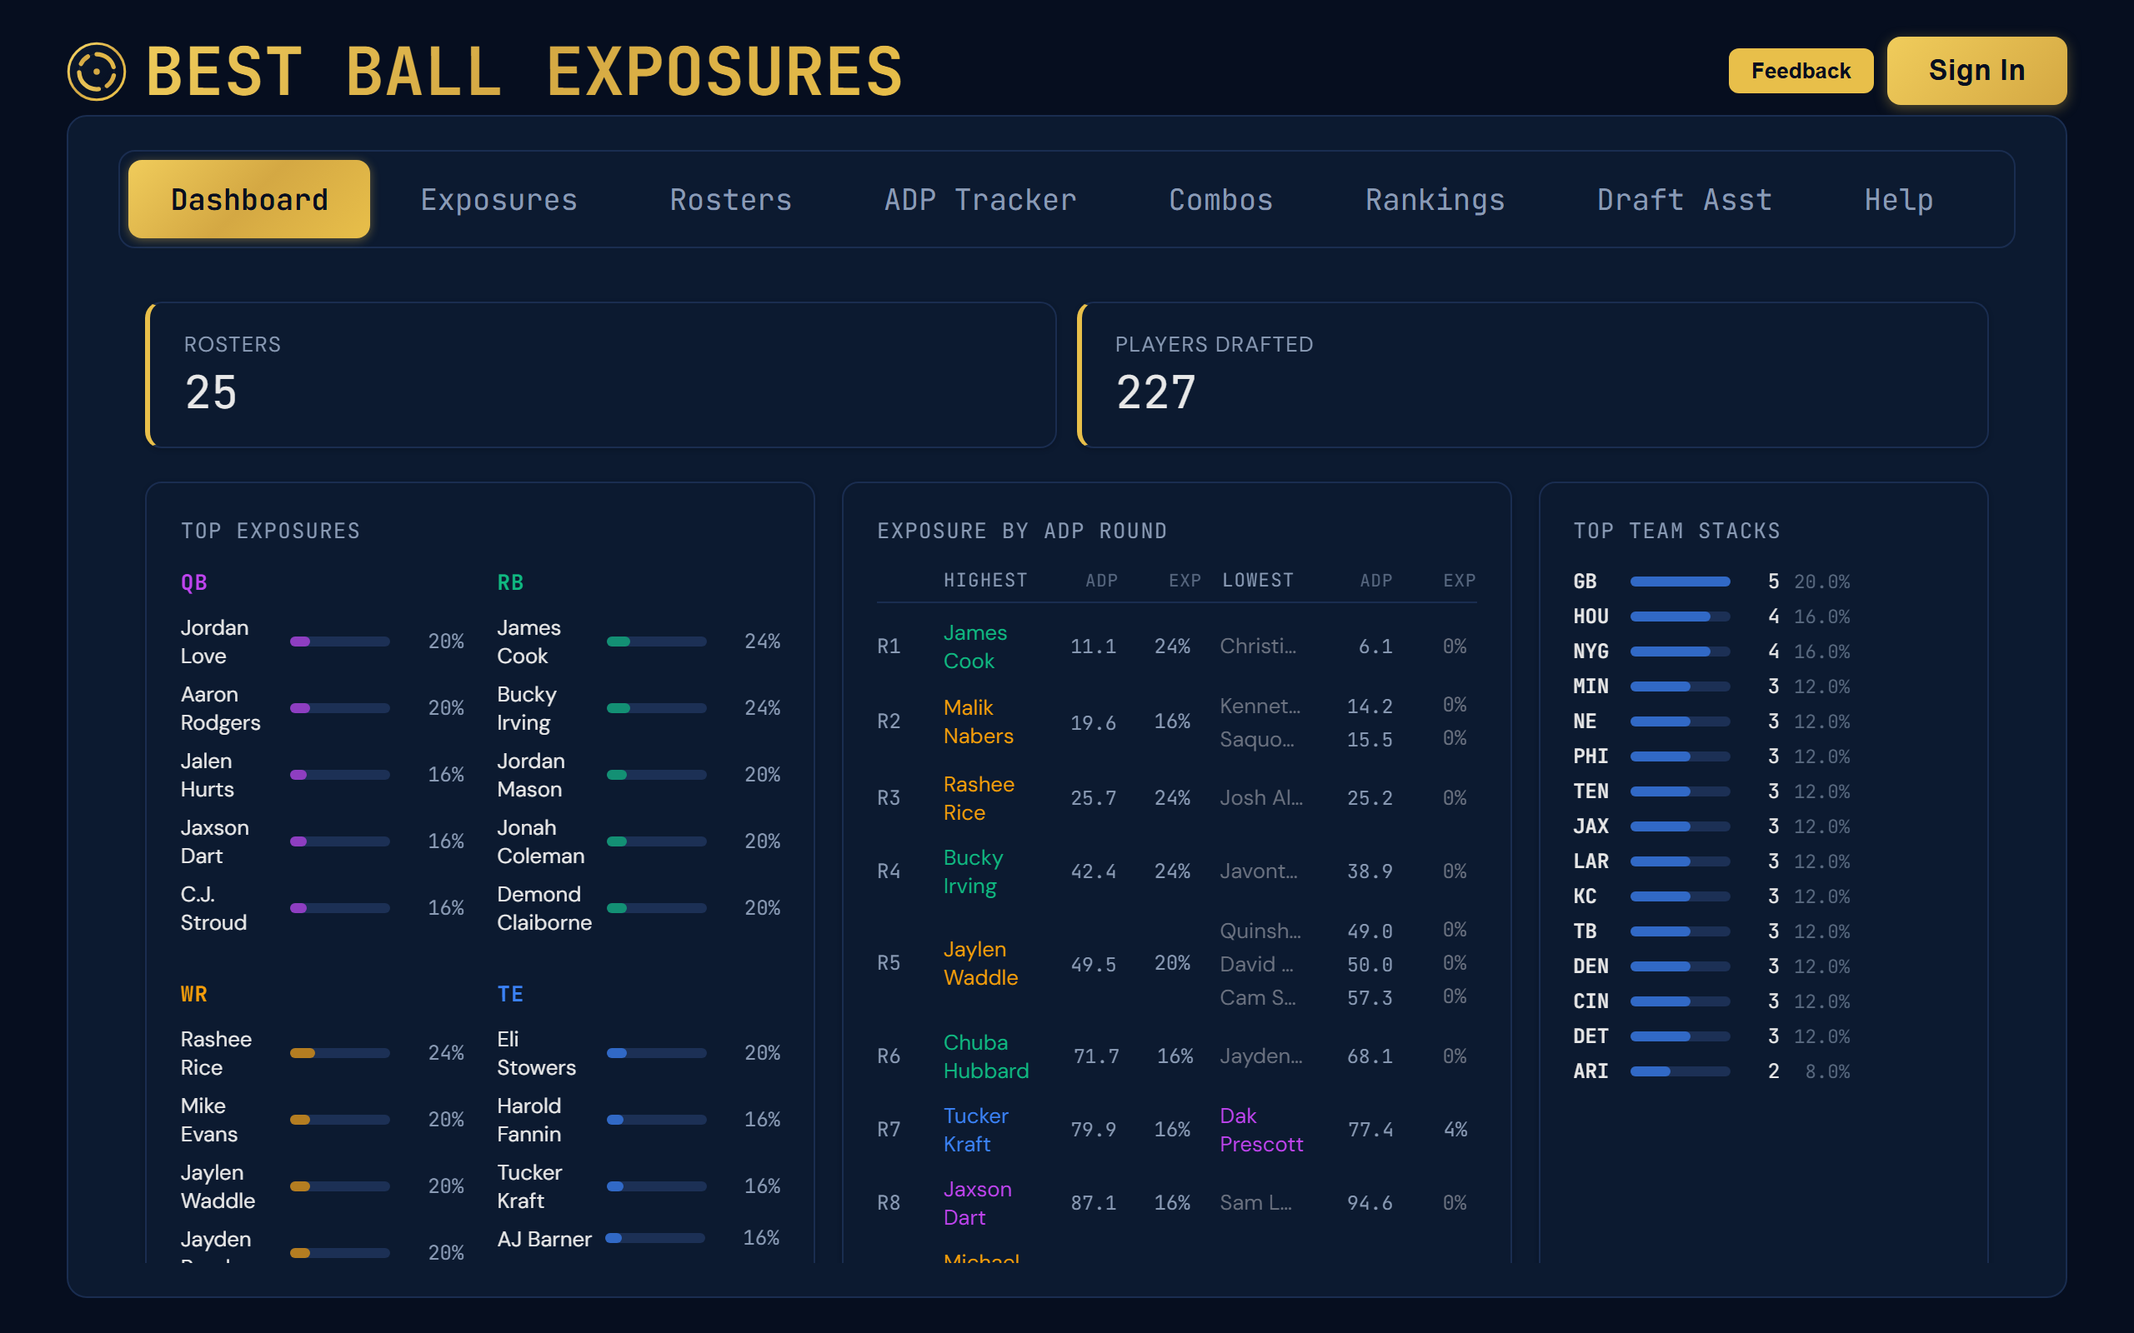
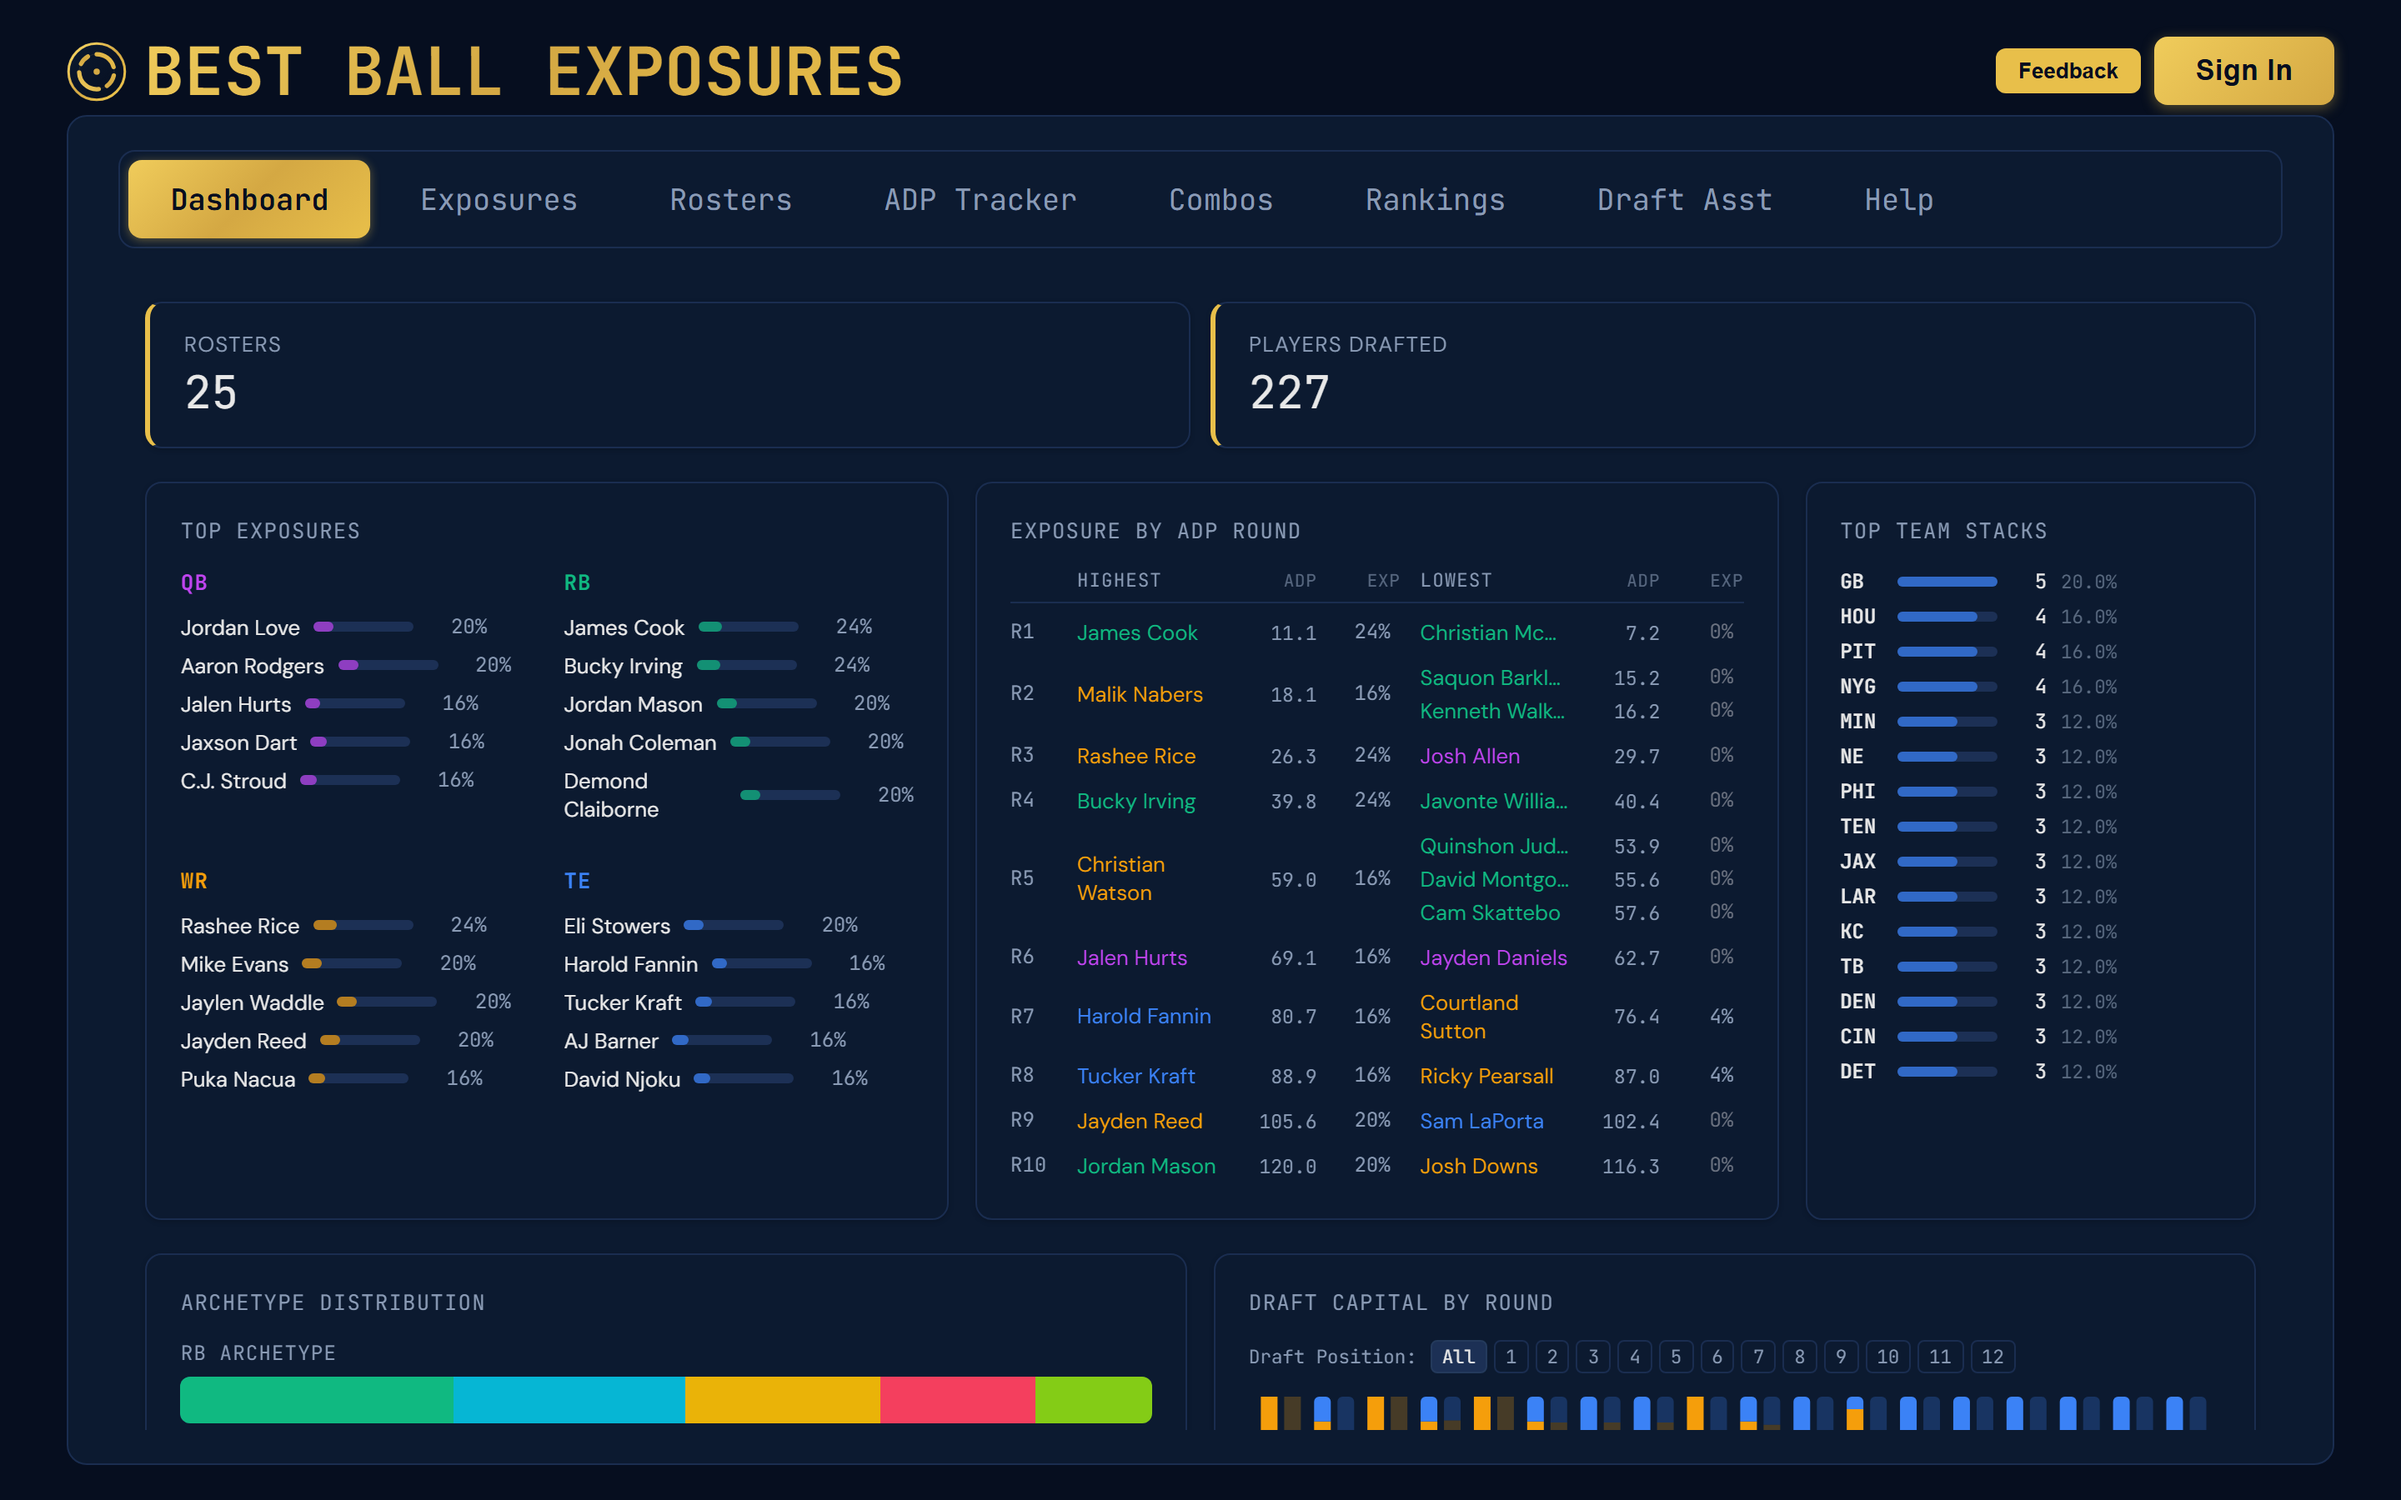
refinement

diff --git a/best-ball-manager/src/components/Dashboard.jsx b/best-ball-manager/src/components/Dashboard.jsx
@@ -1,5 +1,5 @@
 import React, { useMemo, useState } from 'react';
-import { ResponsiveContainer, BarChart, Bar, XAxis, Tooltip, Legend } from 'recharts';
+import { ResponsiveContainer, BarChart, Bar, XAxis, YAxis, Tooltip, Legend } from 'recharts';
 import { BarChart3, Users, TrendingUp, ListOrdered, Crosshair, FolderSync } from 'lucide-react';
 import EmptyState from './EmptyState';
 import { analyzePortfolioTree, ARCHETYPE_METADATA } from '../utils/rosterArchetypes';
@@ -37,6 +37,7 @@ const HELP_ANNOTATIONS = [
 export default function Dashboard({ rosterData = [], masterPlayers = [], adpSnapshots = [], onNavigate, onNavigateToRosters = null, helpOpen = false, onHelpToggle }) {
   const { isMobile } = useMediaQuery();
   const [hoveredSeg, setHoveredSeg] = useState(null);
+  const [selectedPositions, setSelectedPositions] = useState(null); // null = All
 
   // ── Headline Metrics ──
   const metrics = useMemo(() => {
@@ -181,10 +182,43 @@ export default function Dashboard({ rosterData = [], masterPlayers = [], adpSnap
       .slice(0, 15);
   }, [rosterData]);
 
+  // ── Draft Position per Entry (min pick = round-1 slot) ──
+  const draftPositionByEntry = useMemo(() => {
+    const map = {};
+    rosterData.forEach(p => {
+      const pick = Number(p.pick);
+      if (!pick) return;
+      if (map[p.entry_id] === undefined || pick < map[p.entry_id]) {
+        map[p.entry_id] = pick;
+      }
+    });
+    return map;
+  }, [rosterData]);
+
+  function togglePosition(pos) {
+    if (pos === 'all') { setSelectedPositions(null); return; }
+    setSelectedPositions(prev => {
+      // If All is active, isolate to just this position
+      if (prev === null) return new Set([pos]);
+      const next = new Set(prev);
+      if (next.has(pos)) {
+        next.delete(pos);
+        if (next.size === 0 || next.size === 12) return null;
+      } else {
+        next.add(pos);
+        if (next.size === 12) return null;
+      }
+      return next;
+    });
+  }
+
   // ── Draft Capital by Round (user vs market) ──
   const draftCapitalShape = useMemo(() => {
+    const filtered = selectedPositions
+      ? rosterData.filter(p => selectedPositions.has(draftPositionByEntry[p.entry_id]))
+      : rosterData;
     const roundCounts = {};
-    rosterData.forEach(p => {
+    filtered.forEach(p => {
       const r = p.round ? Number(p.round) : Math.ceil(Number(p.pick) / 12);
       if (r >= 1 && r <= 18) {
         if (!roundCounts[r]) roundCounts[r] = { QB: 0, RB: 0, WR: 0, TE: 0 };
@@ -226,7 +260,7 @@ export default function Dashboard({ rosterData = [], masterPlayers = [], adpSnap
         mQB: mc.QB, mRB: mc.RB, mWR: mc.WR, mTE: mc.TE,
       };
     });
-  }, [rosterData, masterPlayers]);
+  }, [rosterData, masterPlayers, selectedPositions, draftPositionByEntry]);
 
   // ── Drill-down stat lines ──
   const drillStats = useMemo(() => {
@@ -457,8 +491,25 @@ export default function Dashboard({ rosterData = [], masterPlayers = [], adpSnap
         {/* Draft Capital by Round — You vs Market */}
         <div className={styles.shapeCard} data-help-id="draft-capital">
           <div className={styles.sectionTitle}>Draft Capital by Round</div>
+          <div className={styles.draftPosFilters}>
+            <span className={styles.draftPosLabel}>Draft Position:</span>
+            {['All',1,2,3,4,5,6,7,8,9,10,11,12].map(p => {
+              const isAll = p === 'All';
+              const active = isAll ? !selectedPositions : selectedPositions?.has(p);
+              return (
+                <button
+                  key={p}
+                  className={`${styles.draftPosBtn}${active ? ` ${styles.draftPosBtnActive}` : ''}`}
+                  onClick={() => togglePosition(isAll ? 'all' : p)}
+                >
+                  {p}
+                </button>
+              );
+            })}
+          </div>
           <ResponsiveContainer width="100%" height={isMobile ? 180 : 220}>
             <BarChart data={draftCapitalShape} margin={{ top: 4, right: 4, bottom: 0, left: 4 }}>
+              <YAxis domain={[0, 100]} hide />
               <XAxis
                 dataKey="round"
                 tick={{ fill: 'var(--text-secondary)', fontSize: 11 }}

diff --git a/best-ball-manager/src/components/Dashboard.module.css b/best-ball-manager/src/components/Dashboard.module.css
@@ -354,6 +354,46 @@
   text-align: right;
 }
 
+/* ── Draft Position Filter ── */
+.draftPosFilters {
+  display: flex;
+  flex-wrap: wrap;
+  align-items: center;
+  gap: 4px;
+  margin-bottom: 10px;
+}
+
+.draftPosLabel {
+  font-family: var(--font-mono);
+  font-size: 0.7rem;
+  color: var(--text-secondary);
+  margin-right: 4px;
+  white-space: nowrap;
+}
+
+.draftPosBtn {
+  font-family: var(--font-mono);
+  font-size: 0.7rem;
+  padding: 2px 6px;
+  border-radius: 4px;
+  border: 1px solid var(--border-subtle);
+  background: transparent;
+  color: var(--text-secondary);
+  cursor: pointer;
+  transition: background 0.15s, color 0.15s, border-color 0.15s;
+}
+
+.draftPosBtn:hover {
+  border-color: var(--border-default);
+  color: var(--text-primary);
+}
+
+.draftPosBtnActive {
+  background: var(--surface-3);
+  border-color: var(--border-default);
+  color: var(--text-primary);
+}
+
 /* ── Capital Legend ── */
 .capitalLegend {
   display: flex;

diff --git a/best-ball-manager/src/components/ComboAnalysis.jsx b/best-ball-manager/src/components/ComboAnalysis.jsx
@@ -445,7 +445,7 @@ export default function ComboAnalysis({ rosterData = [], onNavigateToRosters = n
                   );
                   return (
                     <tr>
-                      <SortHeader label="QB" colKey="name" width={220} helpId="qb-col" />
+                      <SortHeader label="QB" colKey="name" width={440} helpId="qb-col" />
                       <th data-help-id="diversity-col" style={{ padding: '12px 20px', textAlign: 'left' }}>STACK DIVERSITY</th>
                       <SortHeader label="STACK %" colKey="stackPct" align="center" width={80} helpId="stack-pct-col" />
                       <SortHeader label="DRAFTS" colKey="totalDrafts" align="center" width={80} />

diff --git a/best-ball-manager/src/components/LandingPage.jsx b/best-ball-manager/src/components/LandingPage.jsx
@@ -48,14 +48,14 @@ const FEATURES = [
     title: 'Draft Overlay',
     desc: 'Live exposure and combo analysis seamlessly integrated into your draft screen. No second window, no alt-tabbing.',
     unique: false,
-    screenshot: '/screenshots/draft-assistant.png',
+    screenshot: '/screenshots/draft-overlay.png',
   },
   {
     icon: Globe,
     title: 'Multi-Platform Support',
     desc: 'Sync from Underdog and DraftKings. See your whole portfolio, not half of it.',
     unique: false,
-    screenshot: '/screenshots/exposures.png',
+    screenshot: '/screenshots/multi-platform.png',
   },
   {
     icon: Network,

diff --git a/best-ball-manager/scripts/capture-screenshots.js b/best-ball-manager/scripts/capture-screenshots.js
@@ -19,7 +19,7 @@ const __dirname = path.dirname(fileURLToPath(import.meta.url));
 const OUTPUT_DIR = path.resolve(__dirname, '../public/screenshots');
 const BASE_URL = 'http://localhost:5173?demo=true';
 
-const VIEWPORT = { width: 1280, height: 800 };
+const VIEWPORT = { width: 1440, height: 900 };
 const DEVICE_SCALE = 2;
 
 async function waitForApp(page) {

diff --git a/Docs/plans/TASK-184.md b/Docs/plans/TASK-184.md
@@ -1,0 +1,161 @@
+# TASK-184: Draft Capital by Round — draft position filter buttons
+
+**Status:** Pending Approval
+**Priority:** P2
+
+---
+
+## Objective
+
+Add toggle buttons ("All", "1"–"12") above the Draft Capital by Round bar chart that filter by draft position (the user's seat on the draft board). Selecting positions shows only rosters drafted from those slots; the bar chart re-renders dynamically. Default shows all positions.
+
+## Verification Criteria
+
+1. A labeled row of 13 buttons ("All" + positions 1–12) renders above the chart inside `shapeCard`.
+2. Default state: "All" active; chart shows capital aggregated across all rosters.
+3. Clicking a position number deactivates "All" and toggles that position on/off.
+4. The chart updates immediately to reflect only entries matching selected positions.
+5. Clicking "All" resets to all positions.
+6. Active button is visually distinct from inactive (background or border highlight).
+7. Label "Draft Position:" precedes the buttons to make the control self-explanatory.
+8. Build passes with no errors.
+
+## Verification Approach
+
+1. `npm run build` from `best-ball-manager/` — no errors.
+2. Developer visual check in dev server: confirm buttons render, toggling updates the chart, "All" resets.
+
+## Files to Change
+
+| File | Action | Description |
+|------|--------|-------------|
+| `best-ball-manager/src/components/Dashboard.jsx` | Modify | Derive draft position per entry; add `selectedPositions` state; filter `rosterData` before aggregation; render filter button row |
+| `best-ball-manager/src/components/Dashboard.module.css` | Modify | Styles for `.draftPosFilters`, `.draftPosBtn`, `.draftPosBtnActive` |
+
+## Implementation Approach
+
+### Derive draft position per entry
+
+Draft position = the minimum `pick` value across all rows sharing an `entry_id`. In a 12-team snake draft, round-1 picks are 1–12, so the first pick of any entry equals their draft slot.
+
+```js
+const draftPositionByEntry = useMemo(() => {
+  const map = {};
+  rosterData.forEach(p => {
+    const pick = Number(p.pick);
+    if (!pick) return;
+    if (map[p.entry_id] === undefined || pick < map[p.entry_id]) {
+      map[p.entry_id] = pick;
+    }
+  });
+  return map; // entry_id -> draft slot (1–12)
+}, [rosterData]);
+```
+
+### State
+
+```js
+const [selectedPositions, setSelectedPositions] = useState(null); // null = All
+```
+
+### Toggle handler
+
+```js
+function togglePosition(pos) {
+  if (pos === 'all') { setSelectedPositions(null); return; }
+  setSelectedPositions(prev => {
+    const all12 = new Set([1,2,3,4,5,6,7,8,9,10,11,12]);
+    const next = new Set(prev ?? all12);
+    next.has(pos) ? next.delete(pos) : next.add(pos);
+    if (next.size === 12) return null;
+    return next;
+  });
+}
+```
+
+### Filter roster rows for `draftCapitalShape`
+
+In the existing `draftCapitalShape` useMemo, filter `rosterData` before the aggregation loop:
+
+```js
+const filtered = selectedPositions
+  ? rosterData.filter(p => selectedPositions.has(draftPositionByEntry[p.entry_id]))
+  : rosterData;
+// then use `filtered` instead of `rosterData` in the forEach loop
+```
+
+Add `selectedPositions` and `draftPositionByEntry` to the dependency array.
+
+### Render — button row
+
+Insert directly below `<div className={styles.sectionTitle}>Draft Capital by Round</div>`:
+
+```jsx
+<div className={styles.draftPosFilters}>
+  <span className={styles.draftPosLabel}>Draft Position:</span>
+  {['All',1,2,3,4,5,6,7,8,9,10,11,12].map(p => {
+    const isAll = p === 'All';
+    const active = isAll ? !selectedPositions : selectedPositions?.has(p);
+    return (
+      <button
+        key={p}
+        className={`${styles.draftPosBtn}${active ? ` ${styles.draftPosBtnActive}` : ''}`}
+        onClick={() => togglePosition(isAll ? 'all' : p)}
+      >
+        {p}
+      </button>
+    );
+  })}
+</div>
+```
+
+### CSS
+
+```css
+.draftPosFilters {
+  display: flex;
+  flex-wrap: wrap;
+  align-items: center;
+  gap: 4px;
+  margin-bottom: 10px;
+}
+
+.draftPosLabel {
+  font-family: var(--font-mono);
+  font-size: 0.7rem;
+  color: var(--text-secondary);
+  margin-right: 4px;
+  white-space: nowrap;
+}
+
+.draftPosBtn {
+  font-family: var(--font-mono);
+  font-size: 0.7rem;
+  padding: 2px 6px;
+  border-radius: 4px;
+  border: 1px solid var(--border-subtle);
+  background: transparent;
+  color: var(--text-secondary);
+  cursor: pointer;
+  transition: background 0.15s, color 0.15s, border-color 0.15s;
+}
+
+.draftPosBtn:hover {
+  border-color: var(--border-default);
+  color: var(--text-primary);
+}
+
+.draftPosBtnActive {
+  background: var(--surface-3);
+  border-color: var(--border-default);
+  color: var(--text-primary);
+}
+```
+
+## Dependencies
+
+None
+
+---
+
+*Approved by: <!-- developer name/initials and date once approved -->*

diff --git a/BACKLOG.md b/BACKLOG.md
@@ -5,6 +5,7 @@
 | TASK-170 | Reddit launch posts — r/bestball and r/fantasyfootball announcements | In Progress | P1 |
 | TASK-171 | Creator and streamer outreach — target list and pitch templates | In Progress | P1 |
 | TASK-175 | Block doubleclick.net ad interruptions on DraftKings pages | In Progress | P3 |
+| TASK-184 | Draft Capital by Round — round filter buttons | In Progress | P2 |
 
 ## Active Tasks
 
@@ -16,6 +17,7 @@
 | TASK-182 | Submit Chrome extension to Chrome Web Store | Todo | P1 | [Plan](docs/plans/TASK-182.md) — Draft | No |
 | TASK-148 | Overlay — consume platform-specific saved rankings for tier breaks | Todo | P2 | [Plan](docs/plans/TASK-148.md) — Draft | No |
 | TASK-172 | Feature gating review — evaluate guest "taste" experience for conversion | Todo | P2 | [Plan](docs/plans/TASK-172.md) — Draft | No |
+| TASK-184 | Draft Capital by Round — round filter buttons | In Progress | P2 | [Plan](docs/plans/TASK-184.md) | No |
 | TASK-180 | Retake dashboard hero screenshot manually | Todo | P2 | [Plan](docs/plans/TASK-180.md) — Draft | No |
 | TASK-183 | Configure Sentry DSN for production error monitoring | Todo | P2 | [Plan](docs/plans/TASK-183.md) — Draft | No |
 | TASK-176 | DraftKings draft group to slate name mapping | Todo | P3 | [Plan](docs/plans/TASK-176.md) — Draft | No |
